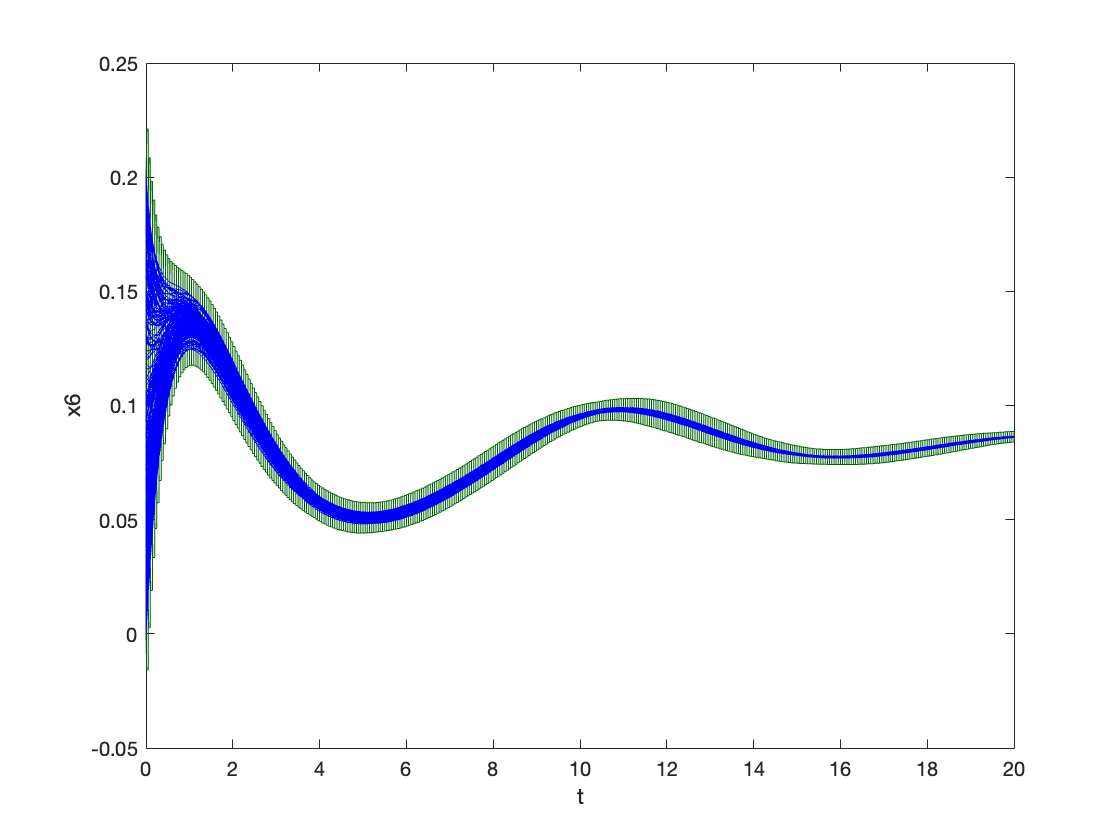
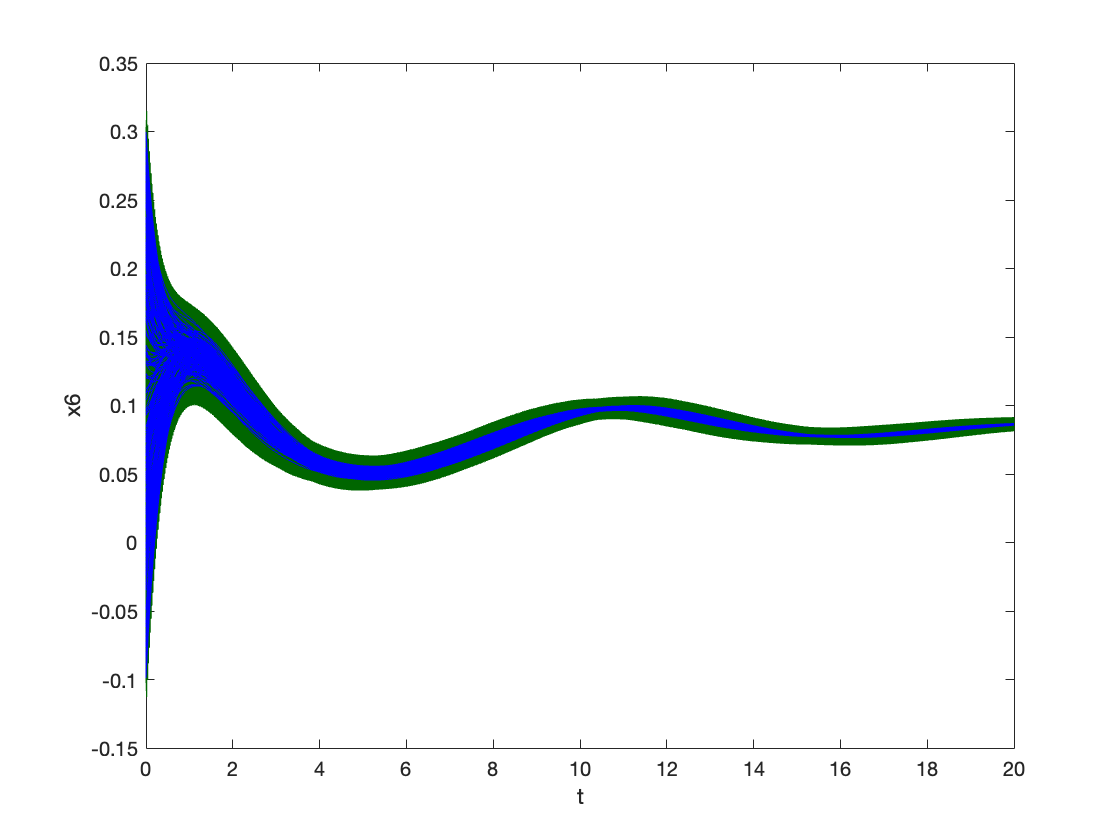
performance improved

Changed region(s): [[0.0938, 0.1548, 0.9062, 0.8048], [0.0938, 0.8667, 0.125, 0.8976], [0.0938, 0.8048, 0.125, 0.8357]]

diff --git a/flowstar-toolbox/Continuous.cpp b/flowstar-toolbox/Continuous.cpp
@@ -2196,7 +2196,6 @@ int Flowpipe::advance(Flowpipe & result, const std::vector<Expression<Real> > & 
 
 		for(int i=0; i<rangeDim; ++i)
 		{
-			linear_part[i].nctrunc(2);
 			result.tmv.tms[i].expansion += linear_part[i];
 		}
 
@@ -2318,6 +2317,9 @@ int Flowpipe::advance(Flowpipe & result, const std::vector<Expression<Real> > & 
 	}
 
 	result.tmv.scale_assign(invS);
+
+	Interval init_cft(-INITIAL_SIMP, INITIAL_SIMP);
+	result.tmv.cutoff_normal(tm_setting.step_end_exp_table, init_cft);
 
 	TaylorModelVec<Real> new_x0(S);
 	new_x0 += tmv_c0;
@@ -2490,7 +2492,6 @@ int Flowpipe::advance(Flowpipe & result, const std::vector<Expression<Interval> 
 
 		for(int i=0; i<rangeDim; ++i)
 		{
-			linear_part[i].nctrunc(2);
 			result.tmv.tms[i].expansion += linear_part[i];
 		}
 
@@ -2612,6 +2613,9 @@ int Flowpipe::advance(Flowpipe & result, const std::vector<Expression<Interval> 
 	}
 
 	result.tmv.scale_assign(invS);
+
+	Interval init_cft(-INITIAL_SIMP, INITIAL_SIMP);
+	result.tmv.cutoff_normal(tm_setting.step_end_exp_table, init_cft);
 
 	TaylorModelVec<Real> new_x0(S);
 	new_x0 += tmv_c0;
@@ -2784,7 +2788,6 @@ int Flowpipe::advance_adaptive_stepsize(Flowpipe & result, const std::vector<Exp
 
 		for(int i=0; i<rangeDim; ++i)
 		{
-			linear_part[i].nctrunc(2);
 			result.tmv.tms[i].expansion += linear_part[i];
 		}
 
@@ -2906,6 +2909,9 @@ int Flowpipe::advance_adaptive_stepsize(Flowpipe & result, const std::vector<Exp
 	}
 
 	result.tmv.scale_assign(invS);
+
+	Interval init_cft(-INITIAL_SIMP, INITIAL_SIMP);
+	result.tmv.cutoff_normal(tm_setting.step_end_exp_table, init_cft);
 
 	TaylorModelVec<Real> new_x0(S);
 	new_x0 += tmv_c0;
@@ -3108,7 +3114,6 @@ int Flowpipe::advance_adaptive_stepsize(Flowpipe & result, const std::vector<Exp
 
 		for(int i=0; i<rangeDim; ++i)
 		{
-			linear_part[i].nctrunc(2);
 			result.tmv.tms[i].expansion += linear_part[i];
 		}
 
@@ -3230,6 +3235,9 @@ int Flowpipe::advance_adaptive_stepsize(Flowpipe & result, const std::vector<Exp
 	}
 
 	result.tmv.scale_assign(invS);
+
+	Interval init_cft(-INITIAL_SIMP, INITIAL_SIMP);
+	result.tmv.cutoff_normal(tm_setting.step_end_exp_table, init_cft);
 
 	TaylorModelVec<Real> new_x0(S);
 	new_x0 += tmv_c0;
@@ -3432,7 +3440,6 @@ int Flowpipe::advance_adaptive_order(Flowpipe & result, const std::vector<Expres
 
 		for(int i=0; i<rangeDim; ++i)
 		{
-			linear_part[i].nctrunc(2);
 			result.tmv.tms[i].expansion += linear_part[i];
 		}
 
@@ -3554,6 +3561,9 @@ int Flowpipe::advance_adaptive_order(Flowpipe & result, const std::vector<Expres
 	}
 
 	result.tmv.scale_assign(invS);
+
+	Interval init_cft(-INITIAL_SIMP, INITIAL_SIMP);
+	result.tmv.cutoff_normal(tm_setting.step_end_exp_table, init_cft);
 
 	TaylorModelVec<Real> new_x0(S);
 	new_x0 += tmv_c0;
@@ -3761,7 +3771,6 @@ int Flowpipe::advance_adaptive_order(Flowpipe & result, const std::vector<Expres
 
 		for(int i=0; i<rangeDim; ++i)
 		{
-			linear_part[i].nctrunc(2);
 			result.tmv.tms[i].expansion += linear_part[i];
 		}
 
@@ -3883,6 +3892,9 @@ int Flowpipe::advance_adaptive_order(Flowpipe & result, const std::vector<Expres
 	}
 
 	result.tmv.scale_assign(invS);
+
+	Interval init_cft(-INITIAL_SIMP, INITIAL_SIMP);
+	result.tmv.cutoff_normal(tm_setting.step_end_exp_table, init_cft);
 
 	TaylorModelVec<Real> new_x0(S);
 	new_x0 += tmv_c0;

diff --git a/flowstar-toolbox/Discrete.h b/flowstar-toolbox/Discrete.h
@@ -571,7 +571,6 @@ int DDE<DATA_TYPE>::reach_symbolic_remainder(std::list<Flowpipe> & flowpipes, co
 
 			for(int i=0; i<rangeDim; ++i)
 			{
-				linear_part[i].nctrunc(2);
 				new_flowpipe.tmv.tms[i].expansion += linear_part[i];
 			}
 
@@ -622,6 +621,9 @@ int DDE<DATA_TYPE>::reach_symbolic_remainder(std::list<Flowpipe> & flowpipes, co
 		range_of_x0.insert(range_of_x0.begin(), intZero);
 
 		new_flowpipe.tmv.scale_assign(invS);
+
+		Interval init_cft(-INITIAL_SIMP, INITIAL_SIMP);
+		new_flowpipe.tmv.cutoff_normal(tm_setting.step_end_exp_table, init_cft);
 
 		TaylorModelVec<Real> new_x0(S);
 		new_x0 += tmv_c0;
@@ -770,7 +772,6 @@ int DDE<DATA_TYPE>::reach_inv_symbolic_remainder(TaylorModelFlowpipes & flowpipe
 
 			for(int i=0; i<rangeDim; ++i)
 			{
-				linear_part[i].nctrunc(2);
 				new_flowpipe.tmv.tms[i].expansion += linear_part[i];
 			}
 
@@ -893,6 +894,9 @@ int DDE<DATA_TYPE>::reach_inv_symbolic_remainder(TaylorModelFlowpipes & flowpipe
 		range_of_x0.insert(range_of_x0.begin(), intZero);
 
 		new_flowpipe.tmv.scale_assign(invS);
+
+		Interval init_cft(-INITIAL_SIMP, INITIAL_SIMP);
+		new_flowpipe.tmv.cutoff_normal(tm_setting.step_end_exp_table, init_cft);
 
 		TaylorModelVec<Real> new_x0(S);
 		new_x0 += tmv_c0;

diff --git a/flowstar-toolbox/include.h b/flowstar-toolbox/include.h
@@ -36,13 +36,15 @@
 const int normal_precision	=	53;
 const int high_precision	=	256;
 
-#define MAX_REFINEMENT_STEPS	49
+#define MAX_REFINEMENT_STEPS	490
 #define MAX_DYN_REF				49
 
 #define MAX_WIDTH				1e-12
 
 #define THRESHOLD_HIGH			1e-12
 #define THRESHOLD_LOW			1e-20
+
+#define INITIAL_SIMP			1e-4
 
 #define STOP_RATIO				0.99
 #define ABS_STOP_RATIO			0.99
